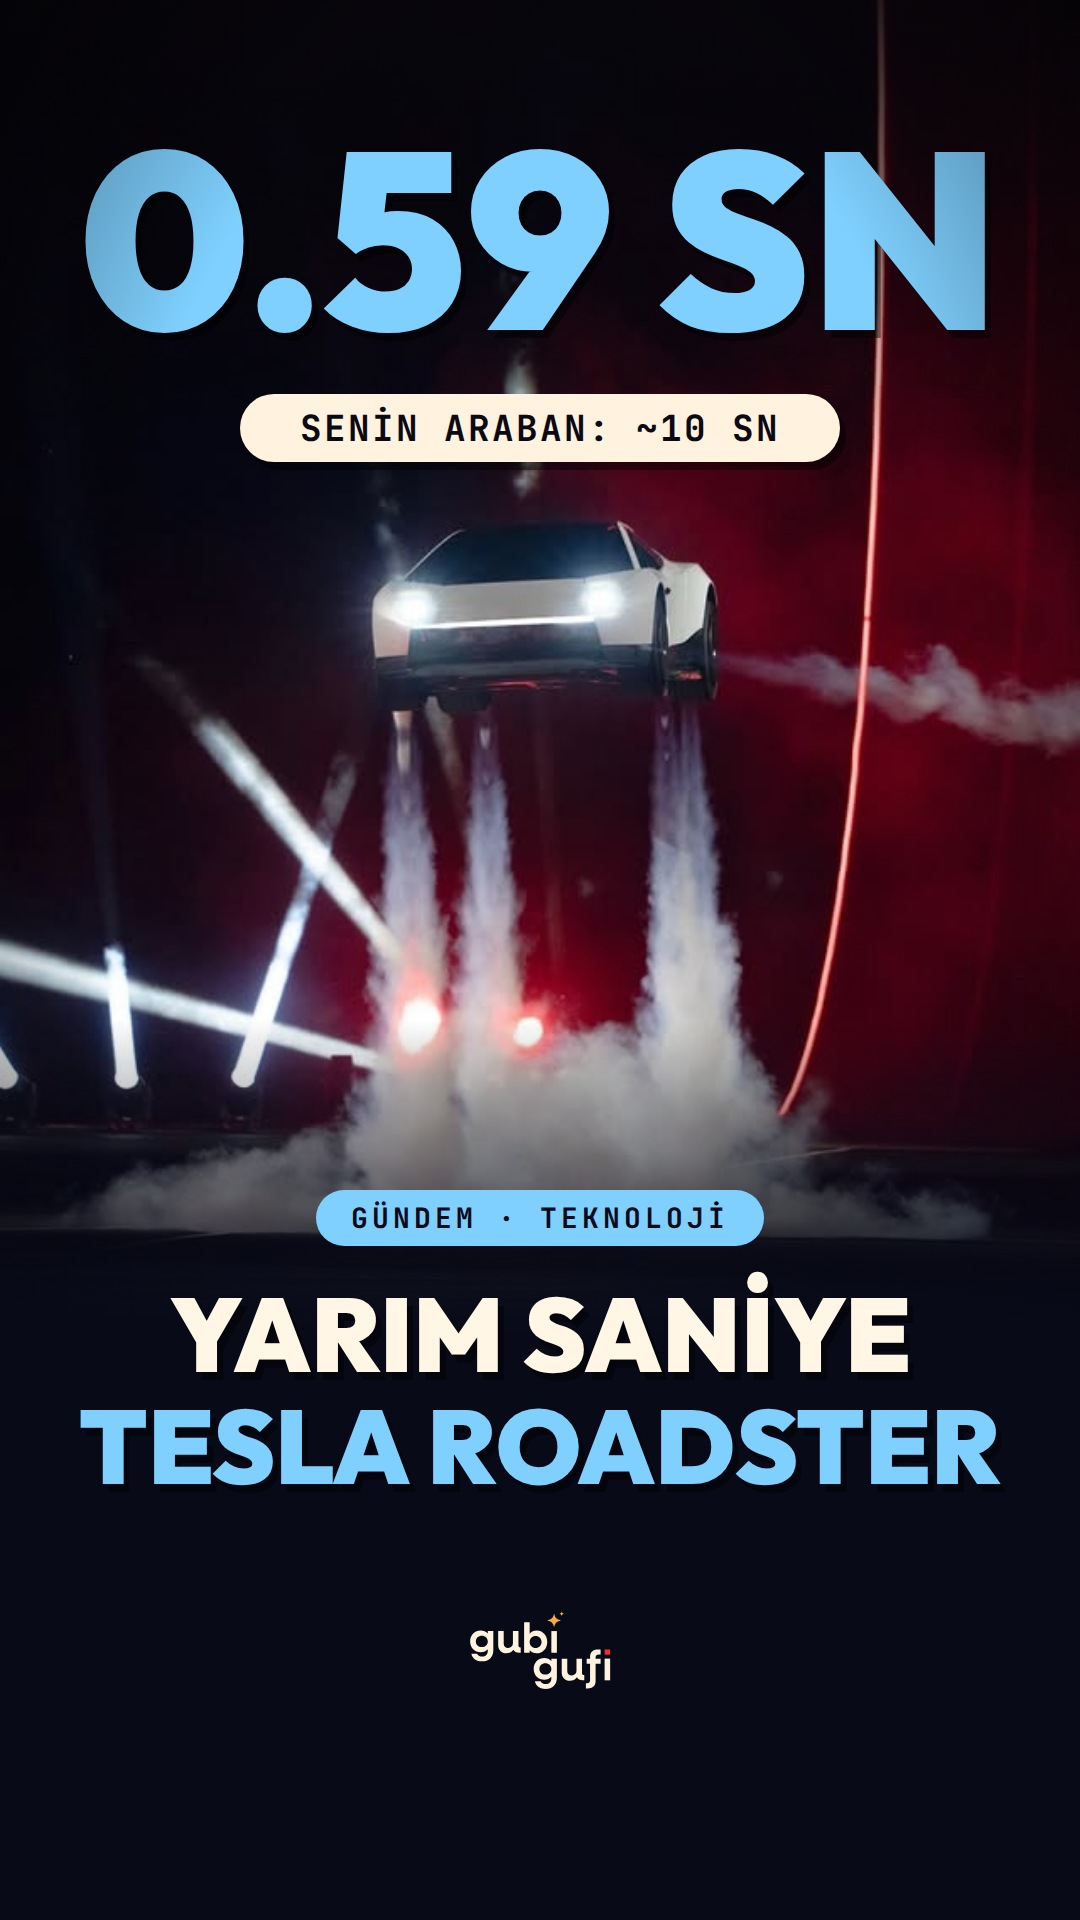
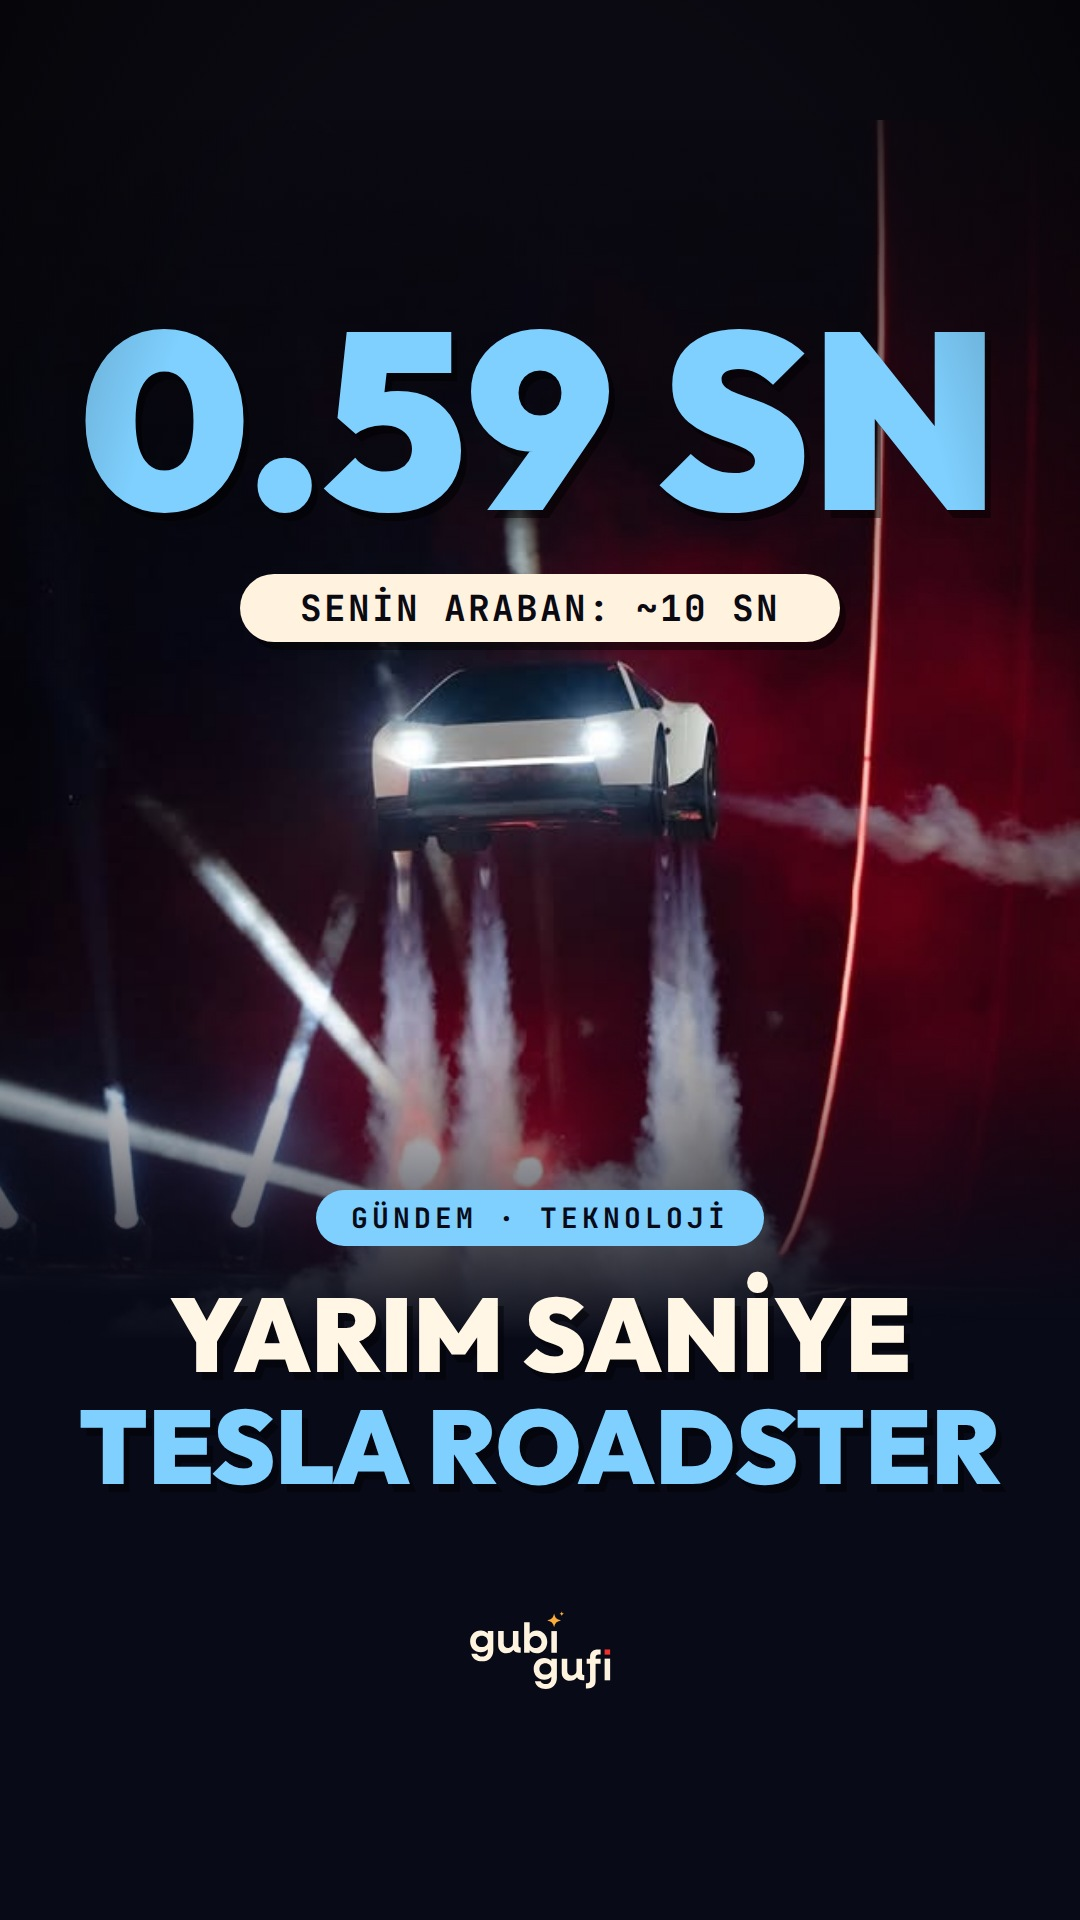
#39 Tesla: kapak profil ızgarası (3:4) güvenli alanına alındı
Claude-Session: https://claude.ai/code/session_01XpFWe2qV8RD24ed2Fkasje

diff --git a/gubigufi/2026-10-16/39-tesla-roadster/kaynak/sahneler/kapak.html b/gubigufi/2026-10-16/39-tesla-roadster/kaynak/sahneler/kapak.html
@@ -38,11 +38,11 @@ const para = (x, y, r, s = 1) => `<g transform="translate(${x} ${y}) rotate(${r}
 window.renderAt = t => {
   const g = gid('g'); let o = `<defs>${lin(g, '#0B0A12', '#0B0A12')}</defs><rect width="1080" height="1920" fill="url(#${g})"/>`;
   // gerçek fotoğraf (640x804) -> genişlik 1080, yükseklik ~1357
-  o += `<image href="../ortak/img/foto1.jpg" x="0" y="-20" width="1080" height="1357" preserveAspectRatio="xMidYMid slice"/>`;
+  o += `<image href="../ortak/img/foto1.jpg" x="0" y="120" width="1080" height="1357" preserveAspectRatio="xMidYMid slice"/>`;
   // üst karartma: sayı okunaklı olsun
-  const ug = gid('u'); o += `<defs>${lin(ug, 'rgba(8,6,12,.85)', 'rgba(8,6,12,0)')}</defs><rect x="0" y="0" width="1080" height="470" fill="url(#${ug})"/>`;
-  o += golgeTxt('0.59 SN', 540, 330, 250, '#7FD0FF');
-  o += `<g transform="translate(540 428)">` + R(-300 + 6, -34 + 8, 600, 68, 34, '#000', .45) + R(-300, -34, 600, 68, 34, '#FFF3E0') + `<text class="mono" x="0" y="13" font-size="36" font-weight="800" text-anchor="middle" letter-spacing="2" style="fill:#0B0A12">SENİN ARABAN: ~10 SN</text></g>`;
+  const ug = gid('u'); o += `<defs>${lin(ug, 'rgba(11,10,18,1)', 'rgba(11,10,18,0)')}</defs><rect x="0" y="0" width="1080" height="700" fill="url(#${ug})"/>`;
+  o += golgeTxt('0.59 SN', 540, 510, 250, '#7FD0FF');
+  o += `<g transform="translate(540 608)">` + R(-300 + 6, -34 + 8, 600, 68, 34, '#000', .45) + R(-300, -34, 600, 68, 34, '#FFF3E0') + `<text class="mono" x="0" y="13" font-size="36" font-weight="800" text-anchor="middle" letter-spacing="2" style="fill:#0B0A12">SENİN ARABAN: ~10 SN</text></g>`;
   o += vinyet() + altBant('#7FD0FF', 'GÜNDEM · TEKNOLOJİ', 'YARIM SANİYE', 'TESLA ROADSTER', '#7FD0FF') + logo();
   document.getElementById('dinamik').innerHTML = o;
 };
